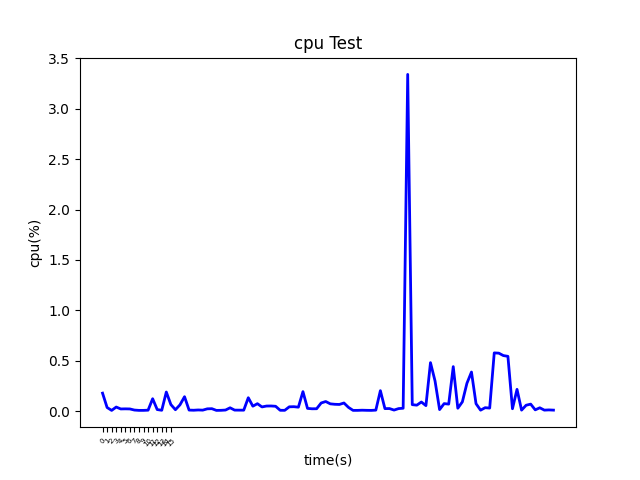
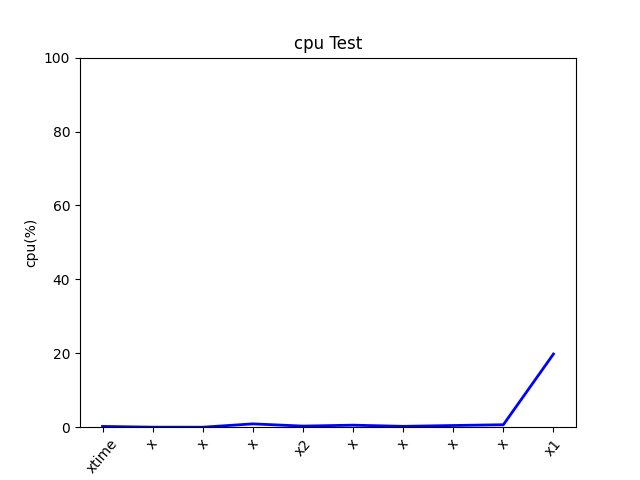
试试

diff --git a/study/matplotlib_study.py b/study/matplotlib_study.py
@@ -2,27 +2,27 @@
 # -*- coding: utf-8 -*-
 from matplotlib import pyplot as plt
 
-def matp(x,y):
+def matp(x,y,labels):
     # y = [0.21, 0.01, 0.0, 0.9]#纵轴坐标数据
     # y =[]
     # x = [1, 2,3,4] #横轴坐标数据，如果不写，默认数据就是自增1
     # x = []
     plt.title("cpu Test")#图片标题
-    
+    # l = ["x","x","x","x","x2","x","x","x","x","x1"]
     plt.xlabel("time(s)") #横轴文字
-    x1 = list(range(len(x)))
-    plt.xticks(x1,rotation=45, fontsize=5)
-    
+    # plt.bar(x,l)
     plt.ylabel("cpu(%)")#纵轴文字
-    
+    plt.ylim(0,100)
     plt.yscale('linear') #设置线性轴，包括: linear、log、symlog、logit
     
     # plt.plot(y,color="blue",linewidth=2,marker="o",markersize=5,markerfacecolor="yellow",markeredgewidth=1,markeredgecolor="red")
     plt.plot(y,color="blue",linewidth=2,markersize=5)
+    plt.xticks(x, labels=labels,rotation=50)
     plt.savefig('../data/sn.png')
     plt.show() #图片展示
 
 if __name__ == '__main__':
-    y = [0.21, 0.01, 0.0, 0.9,0.3,0.55,0.23,0.46,0.67]
-    x = [1.9, 2, 3, 4,5,6,7,8,9]
-    matp(x,y)
+    y = [0.21, 0.01, 0.0, 0.9,0.3,0.55,0.23,0.46,0.67,19.80]
+    x = list(range(0, 10))
+    labels = ['xtime','x','x','x','x2','x','x','x','x','x1']
+    matp(x,y,labels)

diff --git a/study/reponse_read.py b/study/reponse_read.py
@@ -85,7 +85,7 @@ if __name__ == '__main__':
            1.781196, 1.382813, 0.568678, 0.025299, 0.032029, 0.008729, 0.009677, 0.005836, 0.008832, 0.006482, 0.008152,
            0.01432, 0.05181, 0.010926, 0.085622, 0.011353, 0.009482, 0.008049, 0.006467, 0.009339, 0.007206, 0.513962,
            0.008815]
-    pick_arange(readtxt(), 100)
+    # pick_arange(readtxt(), 100)
     # x = ['2:50:40', 2, 3, 4,5,6,7,8,9,10,11,12,13,14,15,16]
     x = ["2:50:40", '2:50:50', '2:51:60', '2:50:40', '2:50:40', '2:50:40', '2:50:40', 8, 9, 10, 11, 12, 13, 14, 15, 16]
-    matp(x, pick_arange(six, 100))
+    matp(pick_arange(six, 100))
